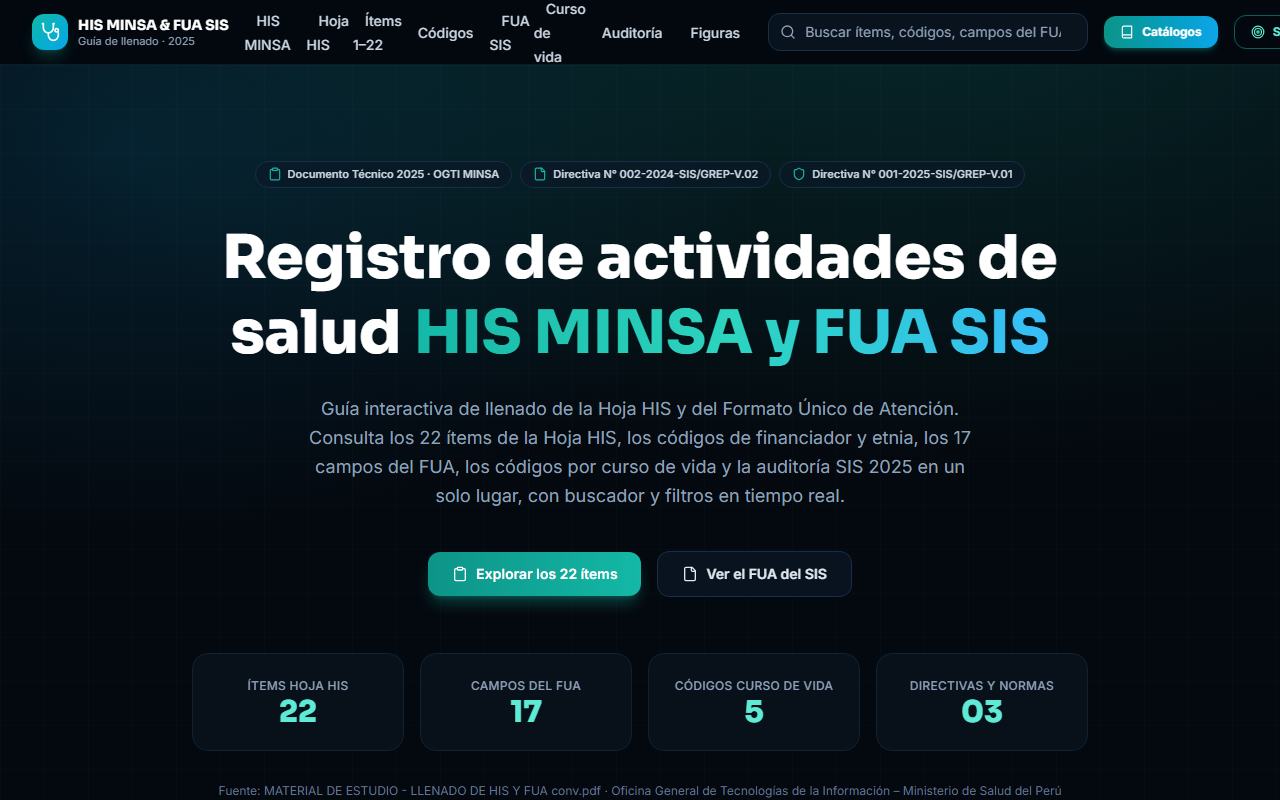
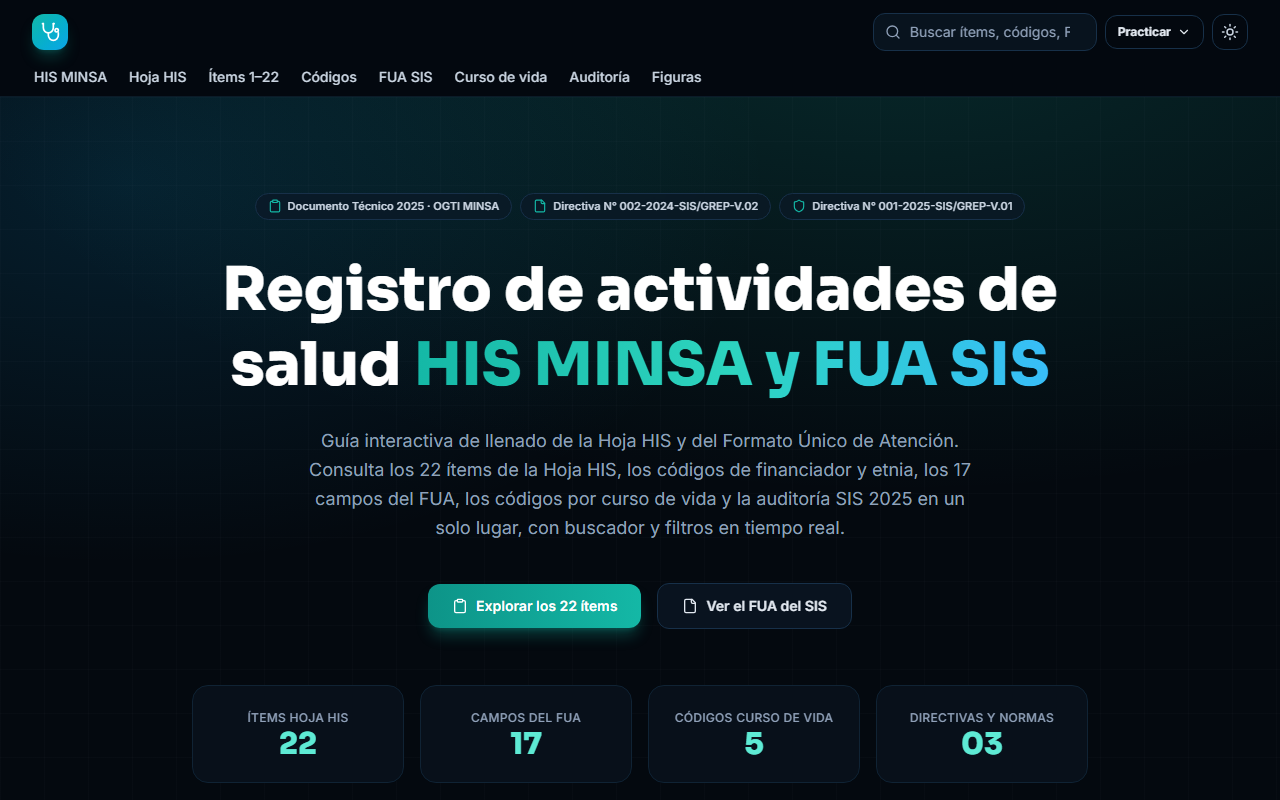
fix(ui): navbar de dos filas en escritorio sin desbordes ni wrap
En pantallas grandes los 8 enlaces, el buscador y los botones de
herramientas competían por una sola fila de 1280px y wrappeaban. El
header ahora usa dos filas en lg+ (herramientas arriba, enlaces de
sección abajo con scroll horizontal de seguridad), buscador desde md,
botones escalonados md/2xl y menú desplegable "Practicar" en lg-2xl.
Ajusta scroll-margin global y offsets sticky de explorador, asistente
y glosario al nuevo alto del header. Regenera capturas del README.

diff --git a/src/styles/global.css b/src/styles/global.css
@@ -28,6 +28,11 @@ html {
   scroll-behavior: smooth;
 }
 
+/* El header mide 64px (<lg) y ~104px (lg+): los anclas deben compensarlo */
+[id] {
+  scroll-margin-top: 7rem;
+}
+
 body {
   text-rendering: optimizeLegibility;
   -webkit-font-smoothing: antialiased;
